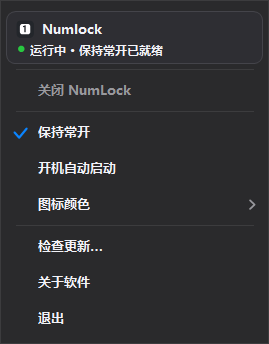
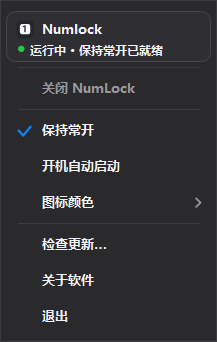
feat: optimize tray menu to 216px compact width, 18px checkmark gutter, and 42px aligned text column (v1.5.9)

diff --git a/MacMenuRenderer.cs b/MacMenuRenderer.cs
@@ -109,8 +109,8 @@ internal sealed class MacMenuRenderer : ToolStripRenderer
             return;
 
         float s = (e.ToolStrip?.DeviceDpi ?? 96) / 96f;
-        // 统一基准缩进列（38px 标尺）：与左侧对勾保持 12px+ 优雅间距，消除文本偏左感
-        float textX = Math.Max(34f, 38f * s);
+        // 统一基准缩进列（42px 标尺）：与左侧对勾保持 12px 黄金间距，且与顶栏 "Numlock" 品牌名（42px）绝对垂直共线对齐
+        float textX = Math.Max(38f, 42f * s);
         var textRect = new Rectangle(
             (int)Math.Round(textX),
             0,
@@ -133,7 +133,7 @@ internal sealed class MacMenuRenderer : ToolStripRenderer
             TextFormatFlags.Left | TextFormatFlags.VerticalCenter | TextFormatFlags.SingleLine | TextFormatFlags.NoPadding);
     }
 
-    /// <summary>勾选标记改为矢量对勾（居中于胶囊内部，距左 14px，选中态纯白反白，macOS 原生观感）</summary>
+    /// <summary>勾选标记改为矢量对勾（距左 18px，离外框与胶囊边缘舒展对称，选中态纯白反白，macOS 原生观感）</summary>
     protected override void OnRenderItemCheck(ToolStripItemImageRenderEventArgs e)
     {
         if (e.Item is MacBrandHeaderItem)
@@ -143,10 +143,10 @@ internal sealed class MacMenuRenderer : ToolStripRenderer
         Graphics g = e.Graphics;
         g.SmoothingMode = SmoothingMode.AntiAlias;
 
-        // 垂直居中、距左 14px，完整显示在胶囊内部
+        // 垂直居中、距左 18px，告别紧贴边框，在悬停胶囊内舒展居中
         float checkW = Math.Max(10f, 12f * s);
         float checkH = Math.Max(8f, 10f * s);
-        float x = Math.Max(12f, 14f * s);
+        float x = Math.Max(15f, 18f * s);
         float y = (e.Item.Height - checkH) / 2f;
 
         bool active = IsRowActive(e.Item);
@@ -179,7 +179,7 @@ internal sealed class MacMenuRenderer : ToolStripRenderer
     protected override void OnRenderSeparator(ToolStripSeparatorRenderEventArgs e)
     {
         float s = (e.ToolStrip?.DeviceDpi ?? 96) / 96f;
-        float margin = Math.Max(12f, 14f * s);
+        float margin = Math.Max(14f, 16f * s);
         int y = e.Item.Height / 2;
         e.Graphics.SmoothingMode = SmoothingMode.None;
         using var pen = new Pen(MenuBorder, Math.Max(1f, 1f * s));
@@ -194,7 +194,7 @@ internal sealed class MacMenuRenderer : ToolStripRenderer
         float s = (e.Item.Owner?.DeviceDpi ?? 96) / 96f;
         float w = 4.5f * s;
         float h = 8.5f * s;
-        float cx = e.Item.Width - 14f * s - w / 2f;
+        float cx = e.Item.Width - 16f * s - w / 2f;
         float cy = e.Item.Size.Height / 2f;
         bool active = IsRowActive(e.Item);
         Color arrowColor = active ? MenuHighlightText : Dim;

diff --git a/SelfTest.cs b/SelfTest.cs
@@ -343,7 +343,7 @@ internal static class SelfTest
                 int sepLeft = RowLeftInk(mimg, app.Menu.Items.OfType<ToolStripSeparator>().First().Bounds);
                 int textLeft = RowLeftInk(mimg, app.Menu.Items.OfType<ToolStripMenuItem>().First(i => i.Text != null && i.Text.StartsWith("关于")).Bounds);
                 Check($"L2. 分隔线优雅内缩收尾（分隔线起点 {sepLeft}px，文字起点 {textLeft}px）",
-                    sepLeft > 0 && textLeft > sepLeft && Math.Abs(sepLeft - Math.Round(14 * scale)) <= Math.Ceiling(3 * scale));
+                    sepLeft > 0 && textLeft > sepLeft && Math.Abs(sepLeft - Math.Round(16 * scale)) <= Math.Ceiling(3 * scale));
 
                 int seam = SeamStrokeColumns(Path.Combine(dir, "menu-light-onscreen.png"), mimg.Width, log);
                 Check($"L3. 子菜单接缝无双描边（实测 {seam} 列，0–1 为合格）", seam >= 0 && seam <= 1);

diff --git a/MacContextMenuStrip.cs b/MacContextMenuStrip.cs
@@ -5,7 +5,7 @@ namespace Numlock;
 
 /// <summary>
 /// macOS 风格托盘弹出菜单：
-/// 1. 重写 MaxItemSize 强制所有条目填满宽屏（默认 268px+，自适应 DPI）；
+/// 1. 重写 MaxItemSize 强制所有条目填满宽屏（默认 216px+，自适应 DPI）；
 /// 2. 统一承载 MacMenuRenderer，消除传统 Windows 菜单左侧灰边。
 /// </summary>
 internal sealed class MacContextMenuStrip : ContextMenuStrip
@@ -23,7 +23,7 @@ internal sealed class MacContextMenuStrip : ContextMenuStrip
         get
         {
             float scale = DeviceDpi / 96f;
-            int minW = (int)Math.Round(268 * scale);
+            int minW = (int)Math.Round(216 * scale);
             return new Size(Math.Max(base.MaxItemSize.Width, minW), base.MaxItemSize.Height);
         }
     }

diff --git a/TrayApp.cs b/TrayApp.cs
@@ -160,8 +160,8 @@ internal sealed class TrayApp : ApplicationContext
         Menu.Opening += (_, _) =>
         {
             float s = Menu.DeviceDpi / 96f;
-            Menu.MinimumSize = new Size((int)Math.Round(268 * s), 0);
-            _brandHeader.Size = new Size((int)Math.Round(268 * s), (int)Math.Round(58 * s));
+            Menu.MinimumSize = new Size((int)Math.Round(216 * s), 0);
+            _brandHeader.Size = new Size((int)Math.Round(216 * s), (int)Math.Round(56 * s));
             _brandHeader.UpdateStatus(Config.EnforceNumLock, NumLock.IsOn);
             ApplyMenuMetrics(); // 显示器 DPI 变化时重算（常规情况下为无操作）
             SyncMenuState();

diff --git a/MacBrandHeaderItem.cs b/MacBrandHeaderItem.cs
@@ -18,7 +18,7 @@ internal sealed class MacBrandHeaderItem : ToolStripMenuItem
     public MacBrandHeaderItem(Func<bool>? isDark = null)
     {
         AutoSize = false;
-        Size = new Size(250, 56);
+        Size = new Size(216, 56);
         ToolTipText = "点击查看关于软件…";
         _isDark = isDark;
     }
@@ -52,7 +52,7 @@ internal sealed class MacBrandHeaderItem : ToolStripMenuItem
     public override Size GetPreferredSize(Size proposedSize)
     {
         float s = (Owner?.DeviceDpi ?? 96) / 96f;
-        int w = (int)Math.Round(250 * s);
+        int w = (int)Math.Round(216 * s);
         int h = (int)Math.Round(56 * s);
         return new Size(w, h);
     }
